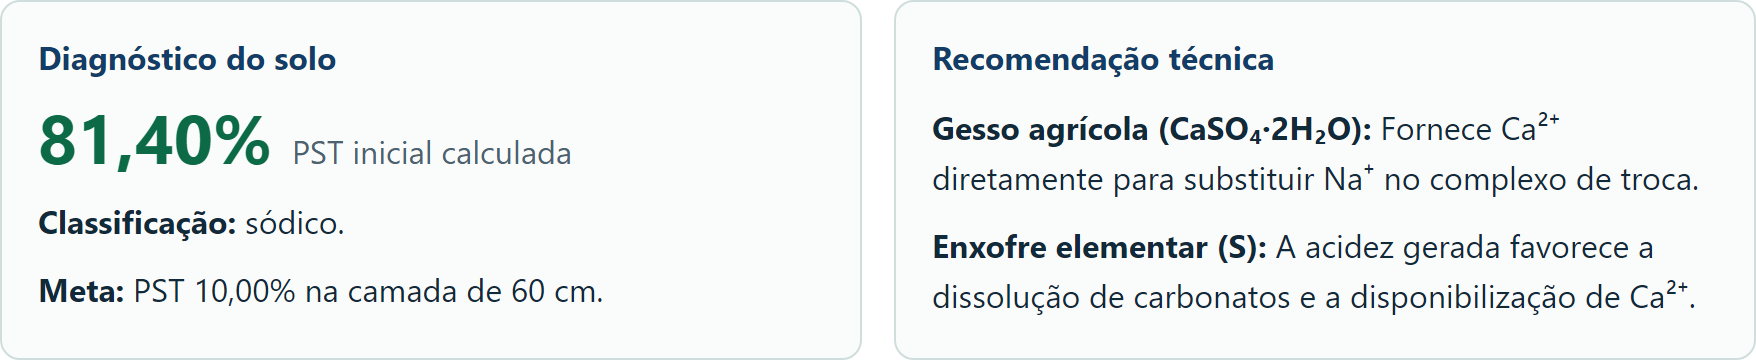
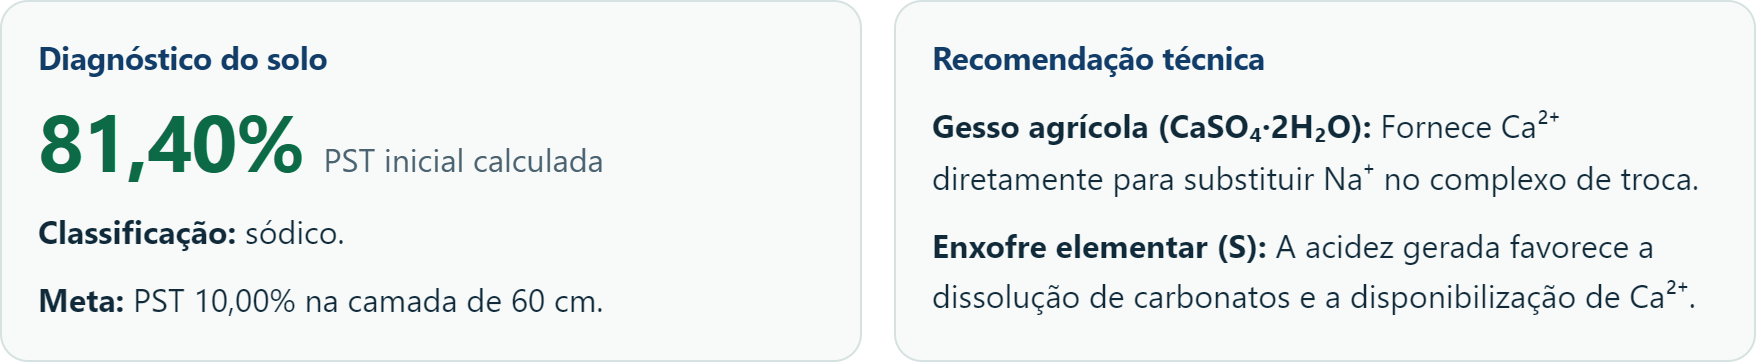
Corrige a detecção de ferramentas, os testes e os links
- A saída de programas nativos é lida sem que o stderr encerre o script, o
  que derrubava a geração do APK no Windows PowerShell.
- O download usa cinco tentativas para resistir a quedas de rede.
- O cache das ferramentas muda de chave junto com a nova pasta `jdk`/`node`.
- O especificador de testes volta a compilar, e os preços do exemplo são os
  pesquisados.
- As figuras do artigo e as capturas de comparação são refeitas.
- Os links da documentação ficam relativos e curtos.

diff --git a/testes/navegador.spec.js b/testes/navegador.spec.js
@@ -1,11 +1,11 @@
 import AxeBuilder from '@axe-core/playwright';
 import { expect, test } from '@playwright/test';
 
-import { P$ECOS } from './precos.js';
+import { PRECOS } from './precos.js';
 
 const GESSO = 0;
-const ENXOF$E = 2;
-const A$QUIVO = new U$L('../codigo_fonte/index.html', import.meta.url).href;
+const ENXOFRE = 2;
+const ARQUIVO = new URL('../codigo_fonte/index.html', import.meta.url).href;
 
 const DADOS = {
   ph: '9,2',
@@ -21,7 +21,7 @@ const DADOS = {
 
 async function carregarExemplo(pagina) {
   await pagina.goto('/');
-  await pagina.getBy$ole('button', { name: /exemplo/i }).click();
+  await pagina.getByRole('button', { name: /exemplo/i }).click();
   await pagina.locator('#calc').click();
 }
 
@@ -33,7 +33,7 @@ async function preencherValido(pagina, alteracoes) {
   }
   await pagina.locator('#use' + GESSO).check();
   await pagina.locator('#purity' + GESSO).fill('80');
-  await pagina.locator('#price' + GESSO).fill('425');
+  await pagina.locator('#price' + GESSO).fill('410');
 }
 
 test('a página abre com o formulário e sem resultados', async function ({ page }) {
@@ -44,7 +44,7 @@ test('a página abre com o formulário e sem resultados', async function ({ page
 
   await page.goto('/');
 
-  await expect(page).toHaveTitle(/$ECUPE$A-SOLO/i);
+  await expect(page).toHaveTitle(/RECUPERA-SOLO/i);
   await expect(page.locator('#results')).toBeHidden();
   await expect(page.locator('#amendGrid .corretivo')).toHaveCount(8);
   expect(erros).toEqual([]);
@@ -52,7 +52,7 @@ test('a página abre com o formulário e sem resultados', async function ({ page
 
 test('Enter em um campo gera o diagnóstico', async function ({ page }) {
   await page.goto('/');
-  await page.getBy$ole('button', { name: /exemplo/i }).click();
+  await page.getByRole('button', { name: /exemplo/i }).click();
   await page.locator('#ph').press('Enter');
 
   await expect(page.locator('#results')).toBeVisible();
@@ -60,20 +60,20 @@ test('Enter em um campo gera o diagnóstico', async function ({ page }) {
 
 test('o botão Usar exemplo preenche os campos com vírgula', async function ({ page }) {
   await page.goto('/');
-  await page.getBy$ole('button', { name: /exemplo/i }).click();
+  await page.getByRole('button', { name: /exemplo/i }).click();
 
   await expect(page.locator('#ph')).toHaveValue('9,2');
   await expect(page.locator('#na')).toHaveValue('7,0');
   await expect(page.locator('#ds')).toHaveValue('1,40');
   await expect(page.locator('#use' + GESSO)).toBeChecked();
-  await expect(page.locator('#use' + ENXOF$E)).toBeChecked();
-  await expect(page.locator('#price' + GESSO)).toHaveValue(String(P$ECOS.gessoGranelEntregue));
-  await expect(page.locator('#price' + ENXOF$E)).toHaveValue(String(P$ECOS.enxofreElementar));
+  await expect(page.locator('#use' + ENXOFRE)).toBeChecked();
+  await expect(page.locator('#price' + GESSO)).toHaveValue(String(PRECOS.gessoGranelEntregue));
+  await expect(page.locator('#price' + ENXOFRE)).toHaveValue(String(PRECOS.enxofreElementar));
 });
 
 test('a página funciona aberta direto do arquivo', async function ({ page }) {
-  await page.goto(A$QUIVO);
-  await page.getBy$ole('button', { name: /exemplo/i }).click();
+  await page.goto(ARQUIVO);
+  await page.getByRole('button', { name: /exemplo/i }).click();
 
   await expect(page.locator('#ph')).toHaveValue('9,2');
 });
@@ -291,7 +291,7 @@ test('os campos têm alvo de toque de pelo menos 44 px no celular', async functi
   const alturas = await page.locator('#ph, #ce, #ctc, #na, #caco3, #ds, #h, #pstf, #area')
     .evaluateAll(function (campos) {
       return campos.map(function (campo) {
-        return Math.round(campo.getBoundingClient$ect().height);
+        return Math.round(campo.getBoundingClientRect().height);
       });
     });
 
@@ -345,8 +345,8 @@ test('o checkbox do corretivo não herda o estilo dos campos de texto', async fu
 
   const medida = await page.locator('#use0').evaluate(function (caixa) {
     const estilo = getComputedStyle(caixa);
-    const topo = caixa.closest('.corretivo-topo').getBoundingClient$ect();
-    const retangulo = caixa.getBoundingClient$ect();
+    const topo = caixa.closest('.corretivo-topo').getBoundingClientRect();
+    const retangulo = caixa.getBoundingClientRect();
     return {
       altura: retangulo.height,
       largura: retangulo.width,
@@ -373,16 +373,16 @@ test('a comparação de custo exige preço de todos os selecionados', async func
   }
   await page.locator('#use' + GESSO).check();
   await page.locator('#purity' + GESSO).fill('80');
-  await page.locator('#price' + GESSO).fill('425');
-  await page.locator('#use' + ENXOF$E).check();
-  await page.locator('#purity' + ENXOF$E).fill('95');
+  await page.locator('#price' + GESSO).fill('410');
+  await page.locator('#use' + ENXOFRE).check();
+  await page.locator('#purity' + ENXOFRE).fill('95');
   await page.locator('#calc').click();
 
   await expect(page.locator('#results')).toBeVisible();
   await expect(page.locator('#best')).toContainText('todos os corretivos selecionados');
   await expect(page.locator('#best')).not.toContainText('Gesso agrícola');
 
-  await page.locator('#price' + ENXOF$E).fill('6200');
+  await page.locator('#price' + ENXOFRE).fill('7998');
   await page.locator('#calc').click();
   await expect(page.locator('#best')).toContainText('Gesso agrícola');
 });
@@ -395,7 +395,7 @@ test('a página inicial não tem violações de acessibilidade', async function 
 
 test('os resultados não introduzem violações de acessibilidade', async function ({ page }) {
   await page.goto('/');
-  await page.getBy$ole('button', { name: /exemplo/i }).click();
+  await page.getByRole('button', { name: /exemplo/i }).click();
   await page.locator('#calc').click();
   const analise = await new AxeBuilder({ page }).analyze();
   expect(analise.violations).toEqual([]);

diff --git a/artigo_cientifico/figuras.js b/artigo_cientifico/figuras.js
@@ -10,7 +10,7 @@ const pasta = path.dirname(fileURLToPath(import.meta.url));
 const raiz = path.dirname(pasta);
 const site = pathToFileURL(path.join(raiz, 'codigo_fonte', 'index.html')).href;
 
-const navegador = await chromium.launch();
+const navegador = await chromium.launch({ channel: process.env.CI ? undefined : 'chrome' });
 
 async function abrir(viewport) {
   const pagina = await navegador.newPage({ viewport, deviceScaleFactor: 2 });
@@ -34,9 +34,9 @@ await avisoPagina.locator('#customMode').click();
 await avisoPagina.locator('#ph').fill('15');
 await avisoPagina.locator('#ph').blur();
 await avisoPagina.waitForTimeout(300);
-const formulario = avisoPagina.locator('section.cartao').nth(1);
-await formulario.scrollIntoViewIfNeeded();
-await formulario.screenshot({ path: path.join(pasta, 'figura2.png') });
+const campoPh = avisoPagina.locator('div.campo').filter({ has: avisoPagina.locator('#ph') });
+await campoPh.scrollIntoViewIfNeeded();
+await campoPh.screenshot({ path: path.join(pasta, 'figura2.png') });
 await avisoPagina.close();
 
 await navegador.close();

diff --git a/README.md b/README.md
@@ -9,7 +9,8 @@ internet.
 ## Abrir
 
 - Site: <https://pwebufersa.github.io/recupera-solo/>
-- APK: [RECUPERA-SOLO.apk](https://github.com/pwebufersa/recupera-solo/raw/main/app_android/RECUPERA-SOLO.apk), com instruções em [app_android/README.md](app_android/README.md)
+- APK: [RECUPERA-SOLO.apk](https://github.com/pwebufersa/recupera-solo/raw/main/app_android/RECUPERA-SOLO.apk),
+  com [instruções do aplicativo](app_android/README.md).
 - Original, por registro histórico: <https://dapper-flan-955869.netlify.app/>
 
 ## Usar
@@ -66,7 +67,7 @@ No exemplo: gesso R$ 28.415,15/ha e enxofre R$ 86.843,13/ha.
 
 `npm ci` instala as dependências na raiz, e `npm test` roda os testes de cálculo
 e de navegador. O roteiro do teste com pessoas está em
-[testes/RECUPERA-SOLO - Teste de uso.docx](<testes/RECUPERA-SOLO - Teste de uso.docx>).
+[Teste de uso.docx](<testes/RECUPERA-SOLO - Teste de uso.docx>).
 
 ## Ferramentas
 
@@ -88,7 +89,7 @@ controle de versão.
 - `artigo_cientifico/`: artigo e figuras.
 - Publicação: GitHub Pages, a partir de `codigo_fonte/`, e APK gerado pelo fluxo
   **Aplicativo Android**. iOS exige macOS com Xcode.
-- Diferenças em relação ao original: [comparacao/COMPARACAO.md](comparacao/COMPARACAO.md).
+- Diferenças em relação ao original: [COMPARACAO.md](comparacao/COMPARACAO.md).
 
 ## Autoria
 

diff --git a/comparacao/COMPARACAO.md b/comparacao/COMPARACAO.md
@@ -2,7 +2,7 @@
 
 O cálculo agronômico é o mesmo; o que mudou foi a entrada de dados, a leitura do
 resultado e a instalação. A referência fixa é o site que estava no Netlify,
-preservado em [`site_original/`](site_original/), e `npm run prints` refaz as
+preservado em [site_original](site_original/), e `npm run prints` refaz as
 capturas sempre contra ele.
 
 ## Lighthouse
